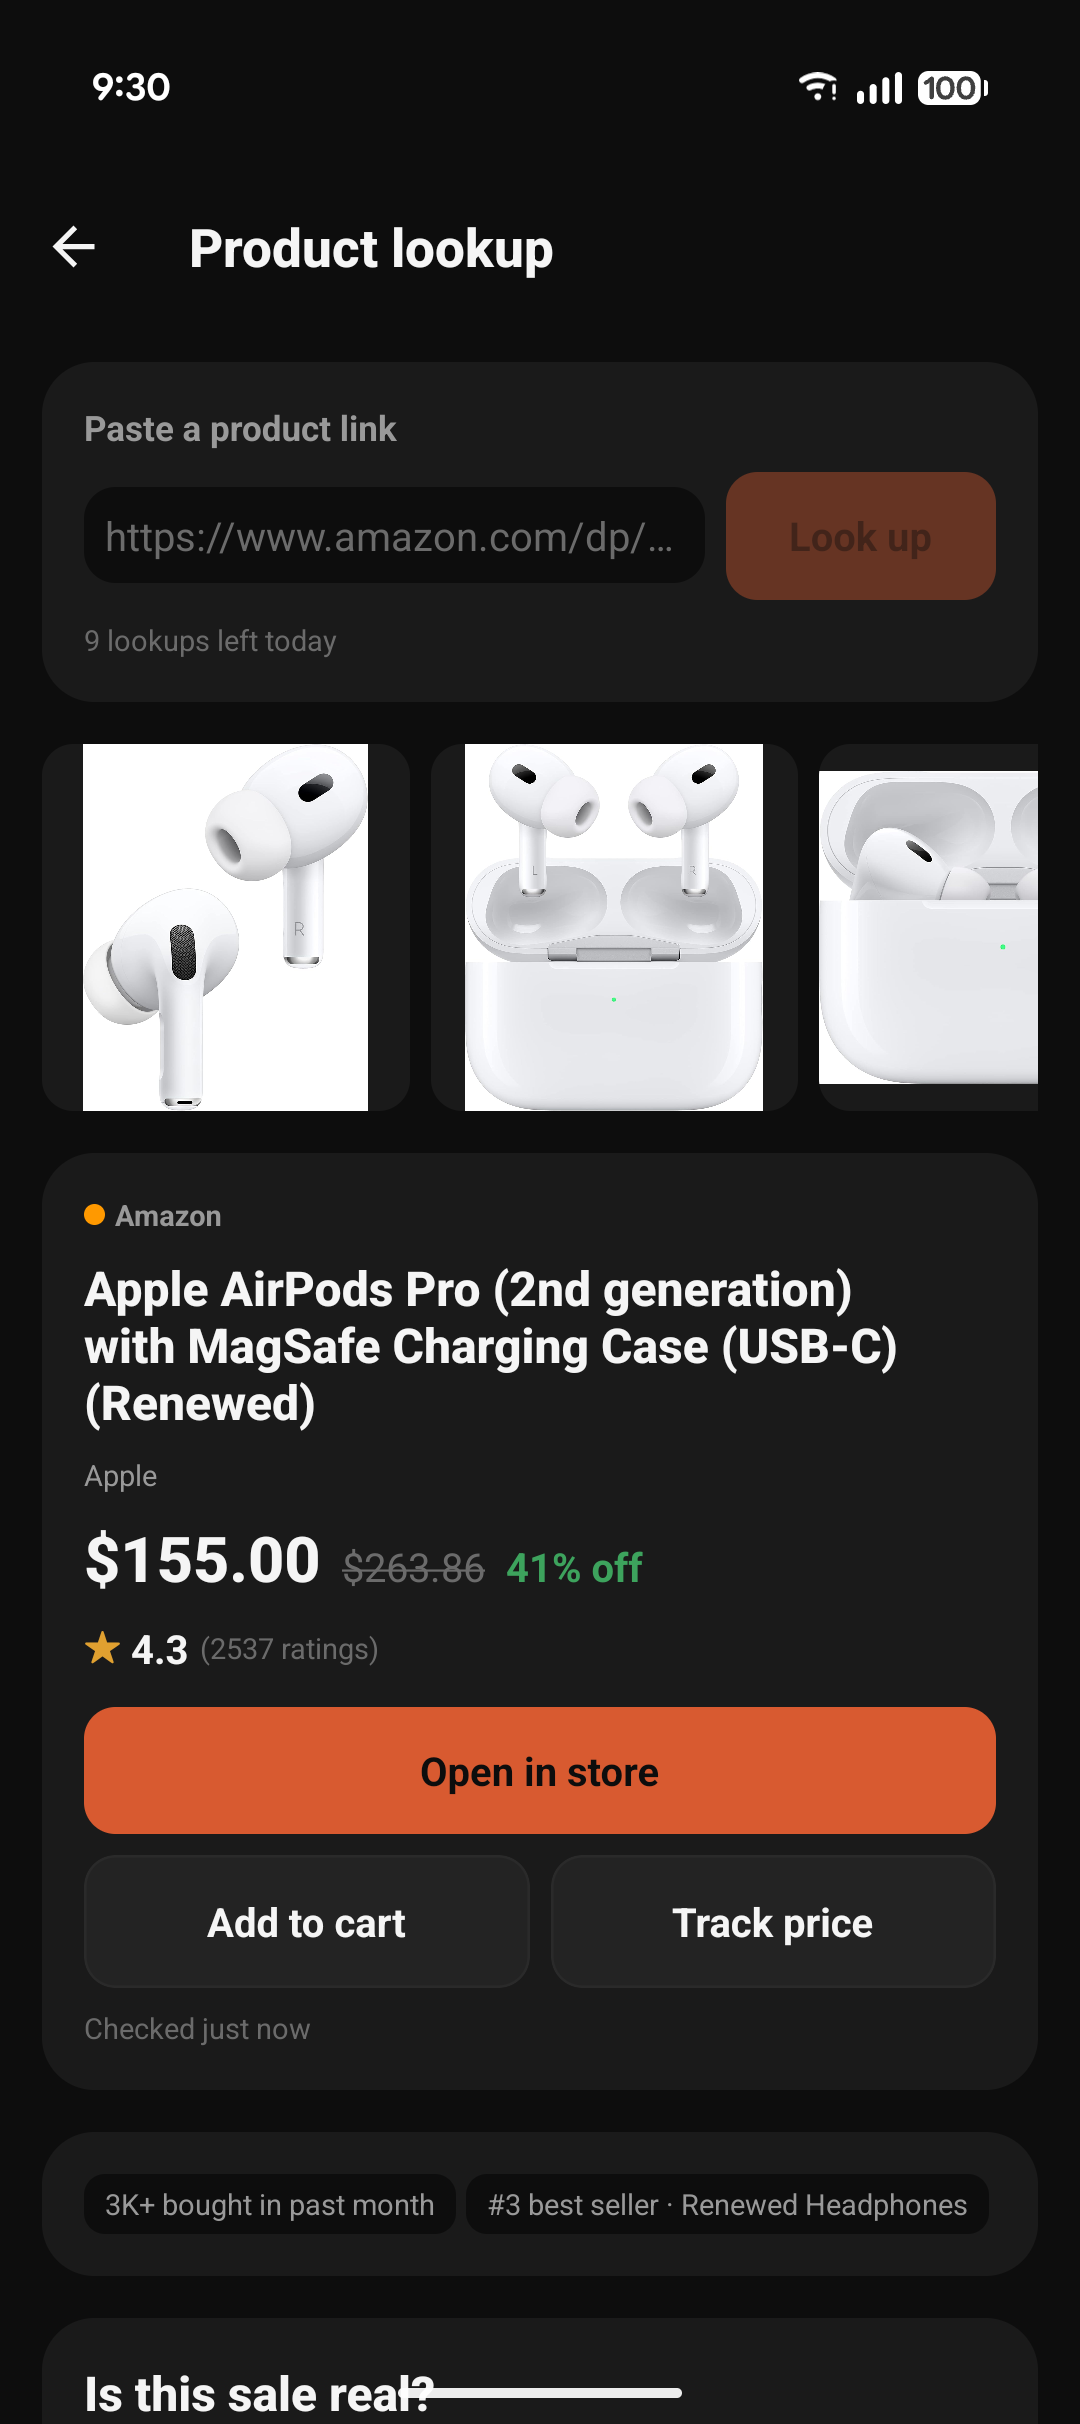
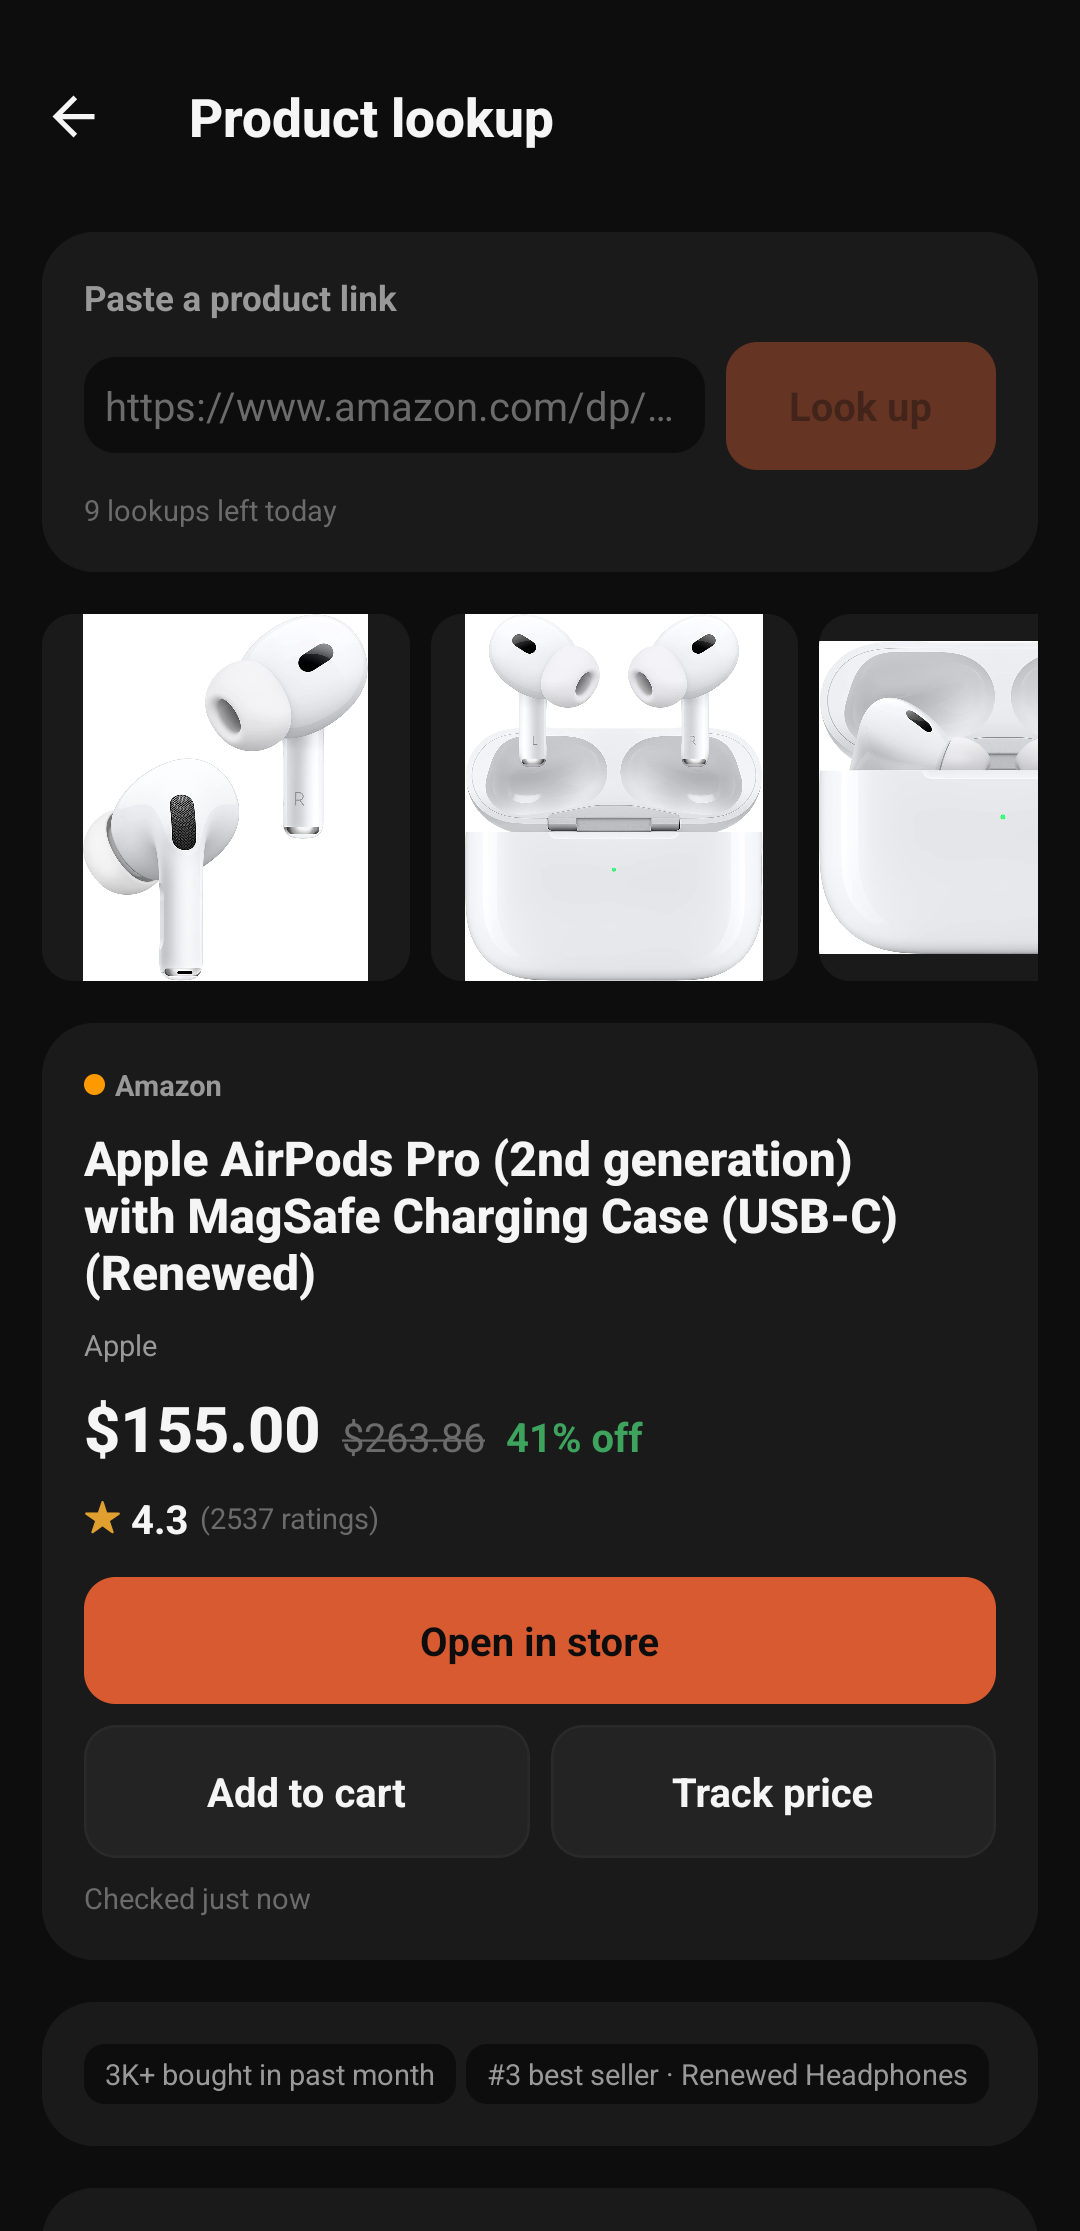
Crop the phone furniture out of the store screenshots
130px off the top takes the whole Android status bar, which removes the
notification icons too and makes the blanking box unnecessary. 63px off the
bottom clears the gesture pill while leaving the app's own tab bar intact,
which ends at y=2361.

Every image now starts on Sweep's header and ends on Sweep's tab bar, so a
device frame goes straight around them with no clock or battery to explain.

diff --git a/sweep-ads/store/BRIEF.md b/sweep-ads/store/BRIEF.md
@@ -1,10 +1,12 @@
 # Play Store screenshots
 
-Five raw captures at 1080x2424, straight off a Pixel running the live app.
-Real data, real prices, nothing mocked up.
+Five captures at 1080x2231, straight off a Pixel running the live app. Real
+data, real prices, nothing mocked up.
 
-The notification-icon strip has been blanked out. Clock, wifi, signal and
-battery are real but pinned by Android's demo mode, so every shot matches.
+Cropped so there is no phone furniture in frame: the Android status bar is off
+the top and the gesture pill is off the bottom. Every image starts on the app's
+own header and ends on its own tab bar, so a device frame can go straight
+around them.
 
 ## Order matters
 
@@ -21,7 +23,8 @@ through. Keep this order.
 
 ## For the designer
 
-- 9:16, minimum 320px and maximum 3840px on the longest side. These are fine as-is.
+- Play wants between 16:9 and 9:16, 320px to 3840px on the longest side. At
+  1080x2231 these sit inside that, so they can be used as they are.
 - Feel free to place them in a device frame and add a background.
 - Brand colours: background `#0D0D0D`, surface `#1A1A1A`, accent `#D85A30`.
 - Please don't crop out the price or the store name on any shot. Those are the
